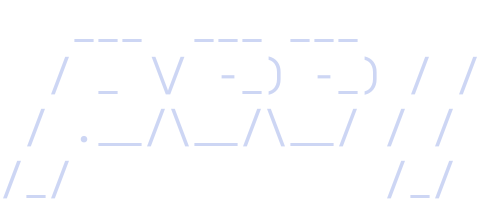
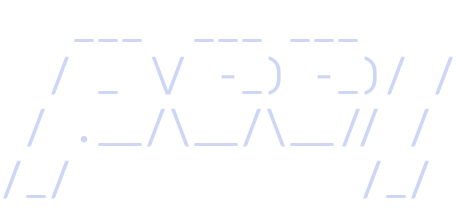
Set the l as close to the e as the p is

diff --git a/src/ui.ts b/src/ui.ts
@@ -471,7 +471,7 @@ export class PeelUI {
     this.brand = new BoxRenderable(ctx, { id: "brand", width: 28, height: 3, flexShrink: 0, flexDirection: "row", gap: 1, paddingLeft: 1 });
     this.logo = new ImageRenderable(ctx, { id: "logo", height: 3, width: 6, source: logoImage(), fit: "fit", flexShrink: 0 });
     this.brand.add(this.logo);
-    this.wordmark = new ImageRenderable(ctx, { id: "wordmark", height: 3, width: 14, source: wordmarkFile, fit: "fit", flexShrink: 0, onLoad: () => this.resizeLayout() });
+    this.wordmark = new ImageRenderable(ctx, { id: "wordmark", height: 3, width: 13, source: wordmarkFile, fit: "fit", flexShrink: 0, onLoad: () => this.resizeLayout() });
     this.brand.add(this.wordmark);
     bar.add(this.brand);
     const searchBox = new BoxRenderable(ctx, { id: "search-panel", ...panel, title: `${icon.search} Search Apple Music  / or Ctrl+F`, titleColor: colour.muted, height: 3, paddingX: 1, flexGrow: 1, flexBasis: 0, minWidth: 0 } as any);
@@ -604,7 +604,7 @@ export class PeelUI {
     // The images keep their proportions in the terminal's cells. Narrow terminals show the apple alone.
     const logoWidth = this.logo.getFittedSize(10, 3).width || 6;
     this.logo.width = logoWidth;
-    this.wordmark.width = this.wordmark.getFittedSize(20, 3).width || 14;
+    this.wordmark.width = this.wordmark.getFittedSize(20, 3).width || 13;
     this.wordmark.visible = !narrow;
     this.brand.width = narrow ? logoWidth + 1 : 28;
     this.sidebarFooter.visible = !narrow;
